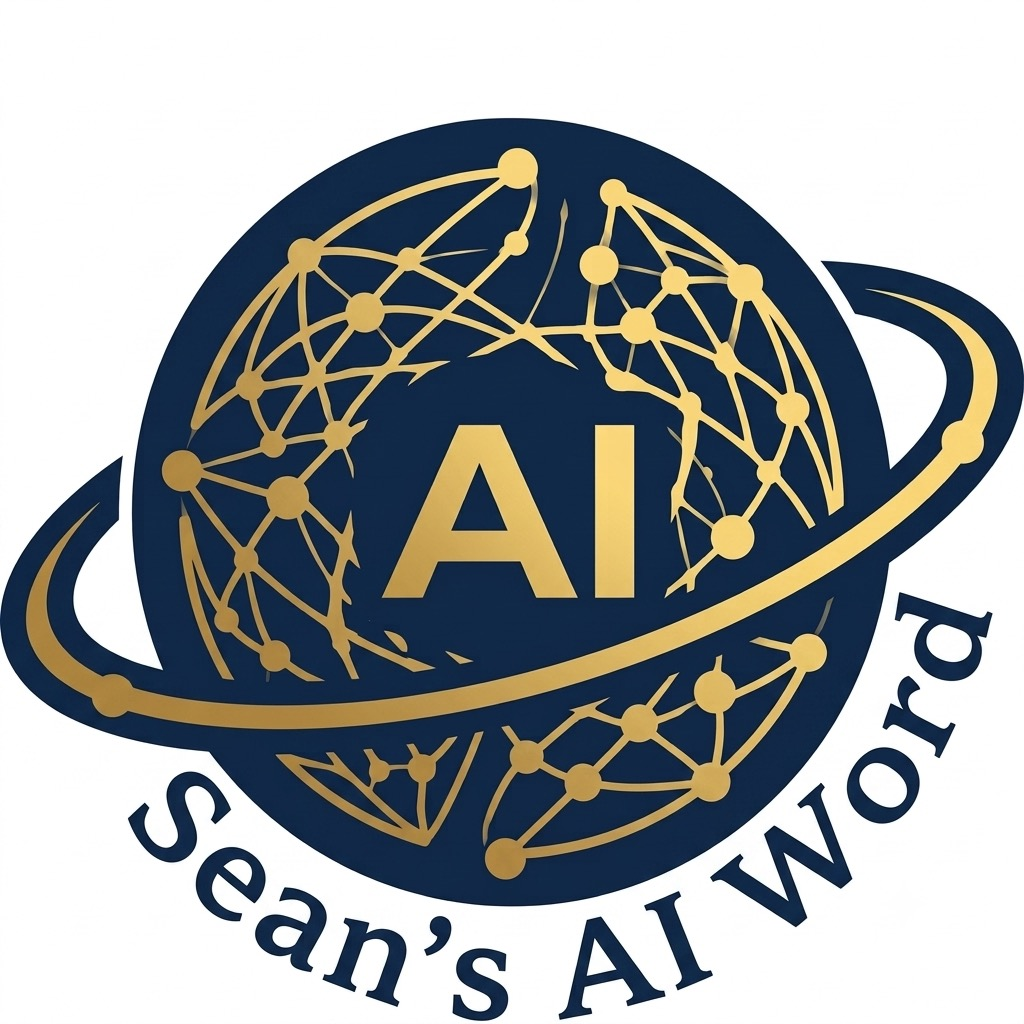
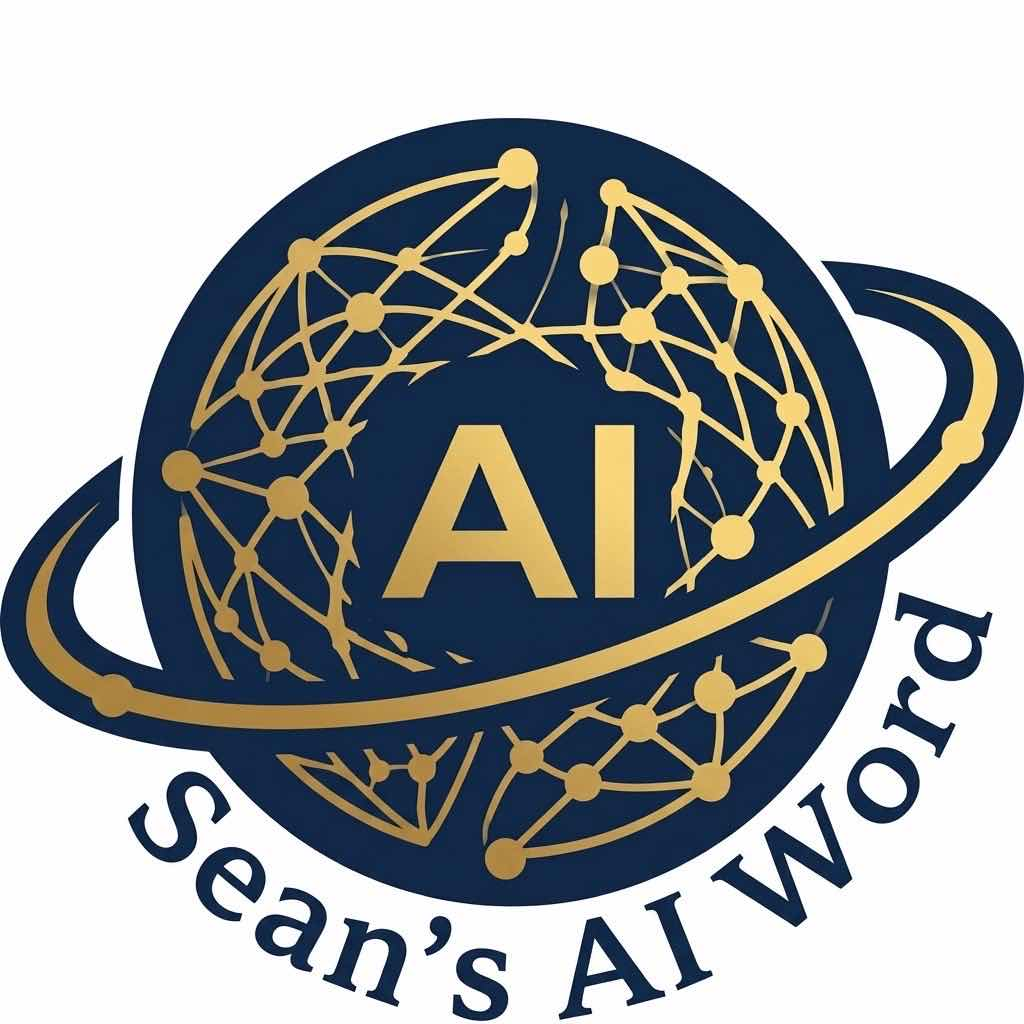
fix(seo): 修复微信朋友圈分享缩略图抓取问题
三个关键修复：
1. body 内隐藏 img 从 1×1 改为 300×300，防止被爬虫当成埋点像素忽略
2. og-image.jpg 压缩 200KB→76KB，避免超过微信缩略图大小限制
3. wx:thumbnail 移入 metadata.other 体系，root layout 和 blog layout 可正常覆写
4. 所有 og-image URL 追加 ?v=2 参数，强制微信爬虫刷新缓存

diff --git a/frontend/src/app/layout.tsx b/frontend/src/app/layout.tsx
@@ -53,6 +53,10 @@ export const metadata: Metadata = {
     index: true,
     follow: true,
   },
+  other: {
+    'wx:webpage': 'true',
+    'wx:thumbnail': `${SITE_URL}/og-image.jpg?v=2`,
+  },
 }
 
 /**
@@ -70,18 +74,18 @@ export default function RootLayout({ children }: { children: React.ReactNode }) 
   return (
     <html lang="zh-CN">
       <head>
-        {/* 微信分享私有标签（必须 property 属性 + 绝对路径，朋友圈专用） */}
+        {/* 微信朋友圈标记（property 属性兼容微信爬虫） */}
         <meta property="wx:webpage" content="true" />
-        <meta property="wx:thumbnail" content={`${SITE_URL}/og-image.jpg`} />
       </head>
       <body className="font-ui">
         {/* 微信朋友圈爬虫需要页面 body 内有实际 <img> 标签才会抓取缩略图；
-            宽高设为 1×1 不可见，仅用于爬虫识别，不影响页面渲染 */}
+            300×300 尺寸确保被爬虫识别为有效图片（1×1 可能被当作埋点像素忽略），
+            CSS 隐藏避免影响页面渲染 */}
         <img
-          src={`${SITE_URL}/og-image.jpg`}
+          src={`${SITE_URL}/og-image.jpg?v=2`}
           alt=""
-          width="1"
-          height="1"
+          width="300"
+          height="300"
           style={{ position: 'absolute', opacity: 0, pointerEvents: 'none' }}
         />
         <ChatProviderWrapper>

diff --git a/frontend/src/app/blog/[id]/layout.tsx b/frontend/src/app/blog/[id]/layout.tsx
@@ -37,9 +37,8 @@ function getSiteUrl(): string {
  * 将可能为相对路径的封面图 URL 转为绝对 URL（OG 要求绝对路径）
  */
 function resolveImageUrl(imagePath: string | null | undefined): string {
-  if (!imagePath) return `${getSiteUrl()}/og-image.jpg`;
+  if (!imagePath) return `${getSiteUrl()}/og-image.jpg?v=2`;
   if (imagePath.startsWith('http')) return imagePath;
-  // 相对路径 → 拼上站点域名
   return `${getSiteUrl()}${imagePath.startsWith('/') ? '' : '/'}${imagePath}`;
 }
 
@@ -104,17 +103,17 @@ export async function generateMetadata({
         title: "文章详情 - Sean's AI World",
         description: '个人技术博客，探索 AI 与软件开发',
         type: 'website',
-        images: [`${siteUrl}/og-image.jpg`],
+        images: [`${siteUrl}/og-image.jpg?v=2`],
       },
       twitter: {
         card: 'summary',
         title: "文章详情 - Sean's AI World",
         description: '个人技术博客，探索 AI 与软件开发',
-        images: [`${siteUrl}/og-image.jpg`],
+        images: [`${siteUrl}/og-image.jpg?v=2`],
       },
       other: {
         'wx:webpage': 'true',
-        'wx:thumbnail': `${siteUrl}/og-image.jpg`,
+        'wx:thumbnail': `${siteUrl}/og-image.jpg?v=2`,
       },
     };
   }

diff --git a/frontend/src/app/blog/[id]/page.tsx b/frontend/src/app/blog/[id]/page.tsx
@@ -516,7 +516,7 @@ export default function ArticleDetailPage() {
             ? article.coverImage.startsWith('http')
               ? article.coverImage
               : `${process.env.NEXT_PUBLIC_SITE_URL || 'http://localhost:3000'}${article.coverImage.startsWith('/') ? '' : '/'}${article.coverImage}`
-            : `${process.env.NEXT_PUBLIC_SITE_URL || 'http://localhost:3000'}/og-image.jpg`
+            : `${process.env.NEXT_PUBLIC_SITE_URL || 'http://localhost:3000'}/og-image.jpg?v=2`
         }
       />
     </>
